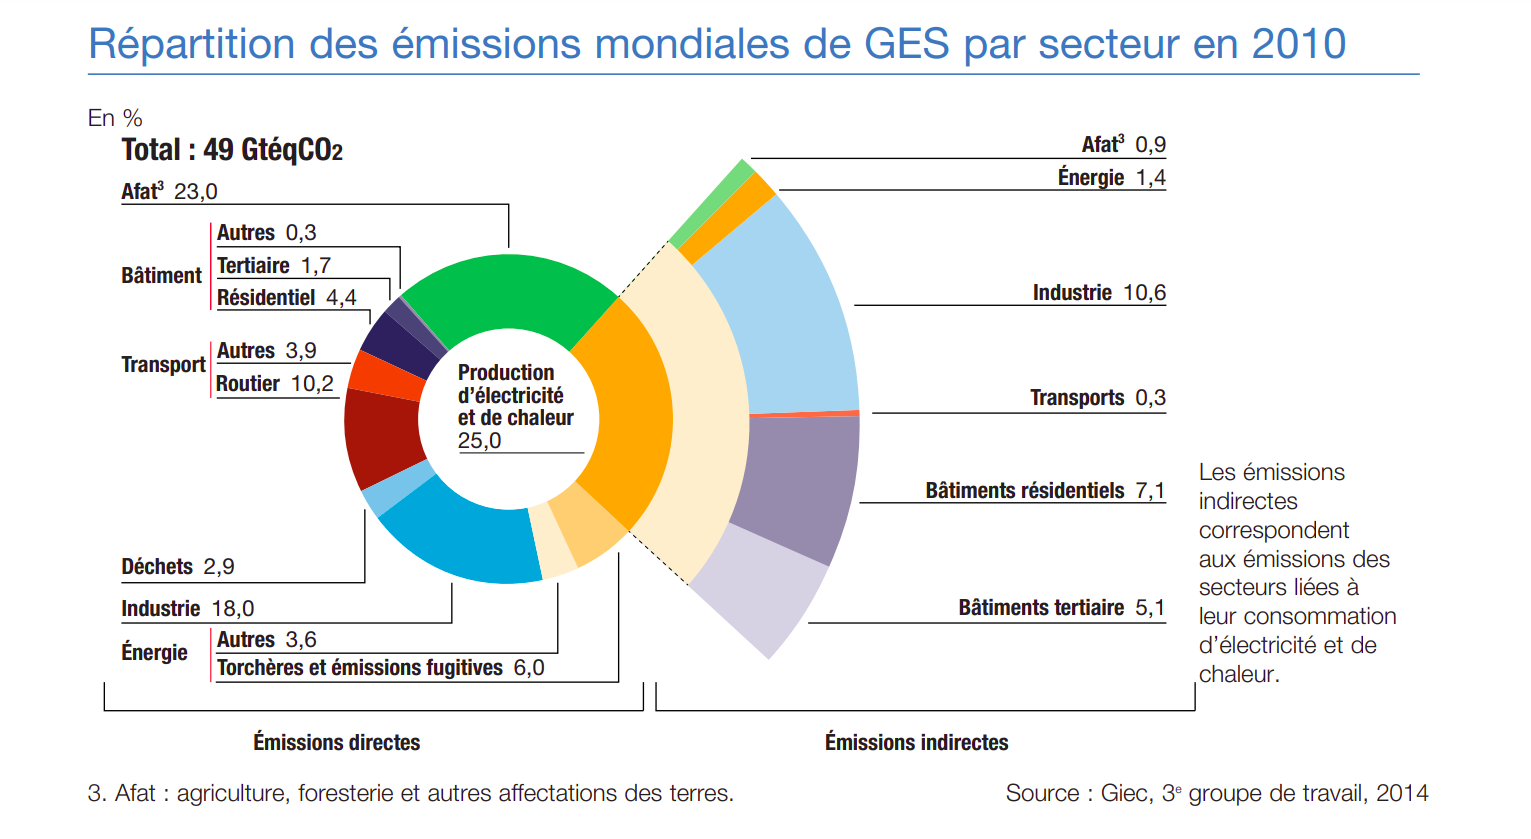
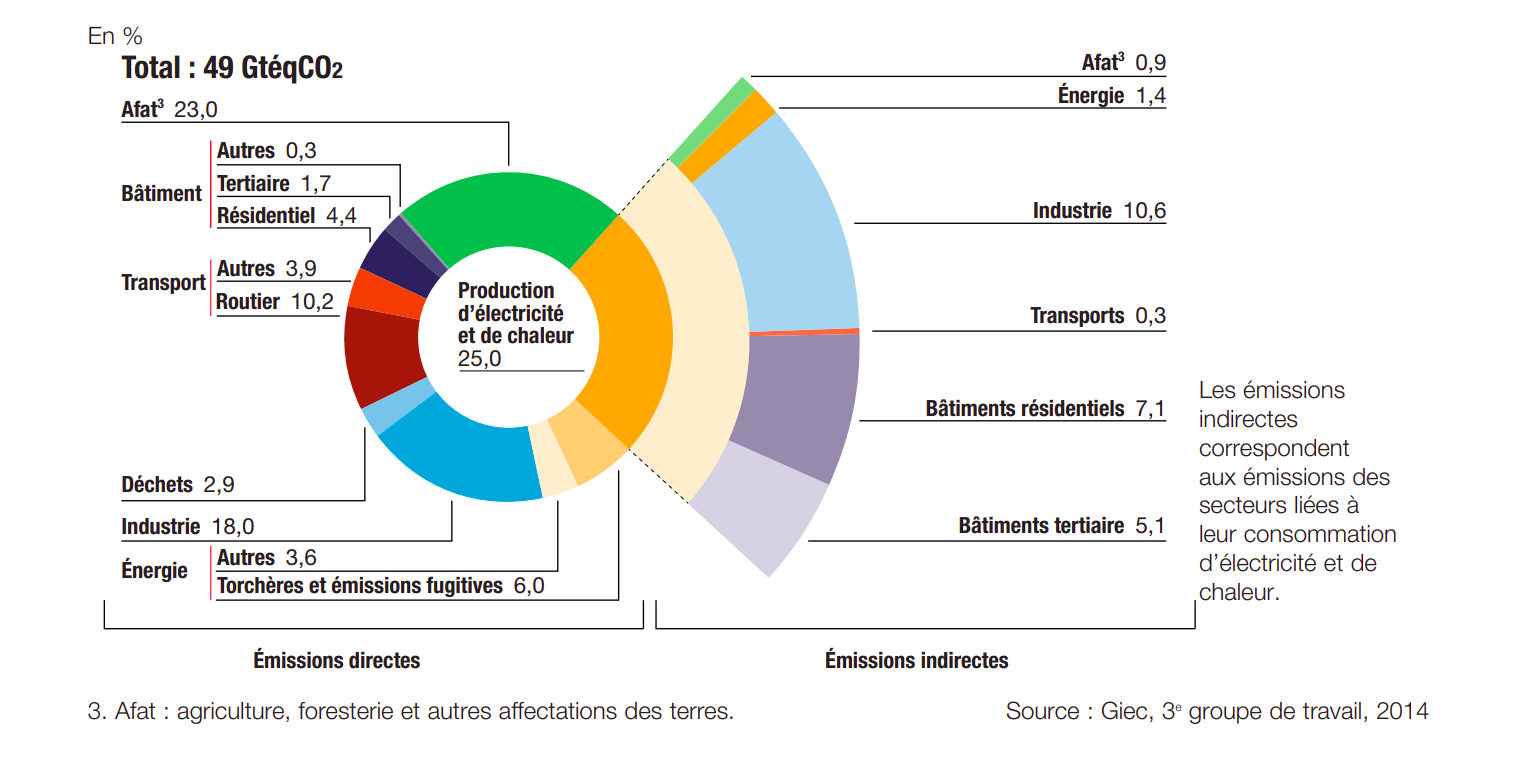
Global warming

diff --git a/corp/art.tex b/corp/art.tex
@@ -130,24 +130,57 @@ sur Terre : la Chine possède près de 60\% des réserves mondiales.
 \section{Réchauffement climatique}
 
 L'augmentation des besoins des être humains a également une conséquence sur l'environnement.
-La production d'énergie et sa consommation 
-La quantité de Gaz à Effet de Serre - GES - dans l'atmosphère s'en retrouve directement impacté. 
-Elle est responsable de l'augmentation de la température terrestre. 
-% Estimation de l'emprunte carbone du numérique
-% Augmentation des températures
-% Augmentation des catastrophes naturelles
-% Montée des eaux, affaissement des océans
+La production d'énergie et sa consommation entraînent une production de carbone dangereuse pour le maintien de l'équilibre des écosystèmes.
+La quantité de Gaz à Effet de Serre - GES - dans l'atmosphère est à la hausse, ce qui sur Terre se traduit par différents impacts :
+\begin{itemize}
+  \item Augmentation de la température terrestre et dérèglement climatique ;
+  \item Fonte glacière et montée des eaux ;
+  \item Acidification des océans ;
+  \item Disparitions d'espèces animales ;
+  \item Augmentation du nombre et de l'intensité des catastrophes naturelles ;
+\end{itemize}
+
 \begin{figure}[h]
   \centering
-  \includegraphics[scale=0.5]{media/repartition_ges.png}
-  \caption{
+  \includegraphics[scale=0.30]{media/repartition_ges.png}
+  \caption{ Répartition des émissions mondiales de GES par secteurs en 2010\newline
       \tiny{Source:
-        \url{https://img.aws.la-croix.com/2019/05/29/1301025438/Production-reserves-metaux-rares_1_728_388.jpg}
+        \url{https://www.connaissancedesenergies.org/sites/default/files/pdf-actualites/rep_-_chiffres_cles_du_climat_2016.pdf}
       }
   }
   \label{fig:terre_rare}
 \end{figure}
 
+L'Arcep a publié en octobre 2019 une estimation de l'empreinte carbone du numérique.
+Elle représenterait 3\% des émissions de GES mondiales.
+C'est à la fois une part non négligeable, mais relativement peu quand on le compare au reste de la repartition des émissions mondiales.
+Il y a plus à gagner en réduisant nos émissions dans les autres secteurs qu'en essayant de grignoter sur ce 3\%.
+La technologie peut en effet être un moyen de limiter le total des autres secteurs en les optimisant.
+
+\section{Amélioration des performances informatiques}
+
+Cette part d'émissions de GES pour le numérique est néanmoins à surveiller.
+
+La technologie est en constante progression depuis toujours et est de plus en plus puissante.
+L'augmentation de la vitesse de calcul et du stockage des données ont changé la manière dont l'Homme communique avec la machine.
+Il peut parler dorénavant parler en langage naturel à des assistants personnels pour combler ses besoins du quotidien.
+Ces besoins nouveaux s'inscrivent dans une dynamique datant de l'ère industrielle qui veut que
+la population améliore sa qualité de vie quotidienne.
+
+Grâce à ces performances, un français moyen mène une vie plus confortable qu'un roi du Moyen-Âge.
+
+Cependant, le futur voit une perte de vitesse dans cette augmentation de performance.
+Augmenter la complexité des composants davantage n'est plus suffisamment rentable pour renforcer une machine.
+Mais l'évolution de la communication entre machines nous permet de contourner cette limite.
+Il ne suffit plus de créer des machines sur-performantes, mais de créer un
+réseau pour en augmenter le nombre.
+
+% Image montrant l'augmentation de performance
+
+D'autre part, cette augmentation de performance connaît un travers auprès des concepteurs logiciels.
+Les services numériques bénéficiant d'outils de plus en plus puissants, le soucis d'optimisation est souvent mis au second plan.
+Ils deviennent en effet de plus en plus gourmands et n'hésitent pas à exploiter toute la capacité de la machine sur des fonctionnalités souvent accéssoires.
+Le terme d'obésiciels est utilisé pour décrire cette tendance.
 
 \section{Vers une optimisation de l'énergie}
 
@@ -162,30 +195,9 @@ qu’ensuite, lorsque les ressources commencent à ne plus suffire ou qu’un be
 
 Nous sommes en mesure de produire suffisamment d’énergie pour répondre aux
 besoins de la population d'aujourd'hui. Mais le contexte nous impose désormais d’optimiser
-nos méthodes : épuisement des énergies fossiles, réchauffement climatique, augmentation de la
+nos méthodes : épuisement des énergies fossiles, dérèglement climatique, augmentation de la
 population.
 
-\section{Amélioration des performances informatiques}
 
-La technologie est en constante progression depuis toujours et sont de plus en plus puissantes.
-L'augmentation de la vitesse de calcul et du stockage des données ont changé la manière dont l'Homme communique avec la machine.
-Il peut parler dorénavant parler en langage naturel à des assistants personnels pour combler ses besoins du quotidien.
-Ces besoins nouveaux s'inscrivent dans une dynamique datant de l'ère industrielle qui veut que
-la population améliore sa qualité de vie quotidienne.
-
-Grâce à ces performances, un français moyen mène une vie plus confortable qu'un roi du Moyen-Âge.
-
-Cependant, le futur voit une perte de vitesse dans cette augmentation de performance. 
-Augmenter la complexité des composants davantage n'est plus suffisamment rentable pour renforcer une machine.
-Mais l'évolution de la communication entre machines nous permet de contourner cette limite. 
-Il ne suffit plus de créer des machines sur-performantes, mais de créer un
-réseau pour en augmenter le nombre.
-
-% Image montrant l'augmentation de performance
-
-D'autre part, cette augmentation de performance connaît un travers auprès des concepteurs logiciels.
-Les services numériques bénéficiant d'outils de plus en plus puissants, le soucis d'optimisation est souvent mis au second plan.
-Ils deviennent en effet de plus en plus gourmands et n'hésitent pas à exploiter toute la capacité de la machine sur des fonctionnalités souvent accéssoires.
-Le terme d'obésiciels est utilisé pour décrire cette tendance. 
 
 

diff --git a/corp/enjeux.tex b/corp/enjeux.tex
@@ -16,14 +16,14 @@ devrait être d'autant plus importante que les énergies renouvelables prendront
 le mix énergétique citadin. Une solution serait que chaque ville possède une bourse de l'énergie
 locale qui atténuerait les variations, et profiterait aux personnes consommant en heures creuses.
 
-\begin{SCfigure}[][h]
+\begin{figure}[h]
     \centering
-    \includegraphics[scale=0.25]{media/smart_city_lux.jpg}
+    \includegraphics[scale=0.40]{media/smart_city_lux.jpg}
     \caption{
         Architecture d'une smartgrid\newline
         \tiny{Source: \url{https://www.creos-net.lu/creos-luxembourg/innovation/smart-grid/reseau-du-futur.html}}
     }
-\end{SCfigure}
+\end{figure}
 
 % Micro grid
 
@@ -196,7 +196,7 @@ Les modèles de croissance urbaine ont été largement façonnés par les forces
 ont manqué une occasion d'aligner le développement urbain sur la capacité des transports en commun.
 
 \section{Étude de cas - IssyGrid}
-Le projet IssyGrid® a été initié en 2012 par Bouygues Immobilier dans la ville d'Issy-les-Moulineaux,
+Le projet IssyGrid® mis en place en 2012 par Bouygues Immobilier dans la ville d'Issy-les-Moulineaux,
 commune française dans le département des Hauts-de-Seine. Le projet a été fortement encouragé par le
 maire de la commune, André Santini. Mais aucun soutien d'ordre financier.
 
@@ -204,12 +204,24 @@ maire de la commune, André Santini. Mais aucun soutien d'ordre financier.
 de l’innovation de la ville.
 
 Le projet n'a pas impliqué qu'un seul acteur, mais un consortium de dix compagnies :
-Bouygues Energies \& Services, Bouygues Immobilier, Bouygues Telecom, EDF, EMBIX, ENEDIS,
-Microsoft, Schneider Electric, Sopra Steria et Total.
+Bouygues Energies \& Services, Bouygues Immobilier, General Electric, EDF, ENEDIS, Microsoft,
+Objenious, Schneider Electric, Sopra Steria et Total.
 
-L'expérience a duré 6 ans, de 2012 à 2018, et a un impact sur la vie de 5.000 habitants, 10.000 employés
+L'expérience a duré 8 ans, de 2012 à 2018, et a un impact sur la vie de 5.000 habitants, 10.000 employés
 et 160.000 m2 de bureaux sur deux quartiers de la ville, Bords-de-Seine (quartier des affaires),
 puis Fort en 2015.
+
+\begin{figure}[h]
+    \centering
+    \includegraphics[scale=0.70]{media/issygrid.jpg}
+    \caption{Le projet IssyGrid\newline
+        \tiny{Source:
+          \url{https://www.constructioncayola.com/reseaux/article/2016/05/20/105695/issygrid-quartier-reseau-malin}
+        }
+    }
+    \label{fig:terre_rare}
+  \end{figure}
+
 
 Le projet a fait face à plusieurs types de défis. Tout d'abord des défis techniques.
 
@@ -247,7 +259,7 @@ graphes simples et intuitifs afin de la sensibiliser et la rendre actrice du pro
 
 Le projet IssyGrid inclus deux autres projets : SWAYS et SoMobility.
 
-SWAYS - Smart ways to work - est un immeuble de travail de l'éco-quartier des affaires de IssyGrid.
+SWAYS - Smart Ways to work - est un immeuble de travail de l'éco-quartier des affaires de IssyGrid.
 Tout est fait pour améliorer le confort des utilisateurs.
 Il privilégie un éclairage naturel dans les bureaux et la purification de l'air par la biophilie,
 le tout grâce à un toit végétale. Des commerces de proximité et autres structures de loisir

diff --git a/post-corp/annexe.tex b/post-corp/annexe.tex
@@ -11,7 +11,7 @@
           \url{https://www.gurumed.org/2015/06/29/une-courbe-des-dcs-militaires-et-civils-depuis-lan-1400}
         }
     }
-  \end{figure}
+\end{figure}
 
 
 \section*{Interview}
